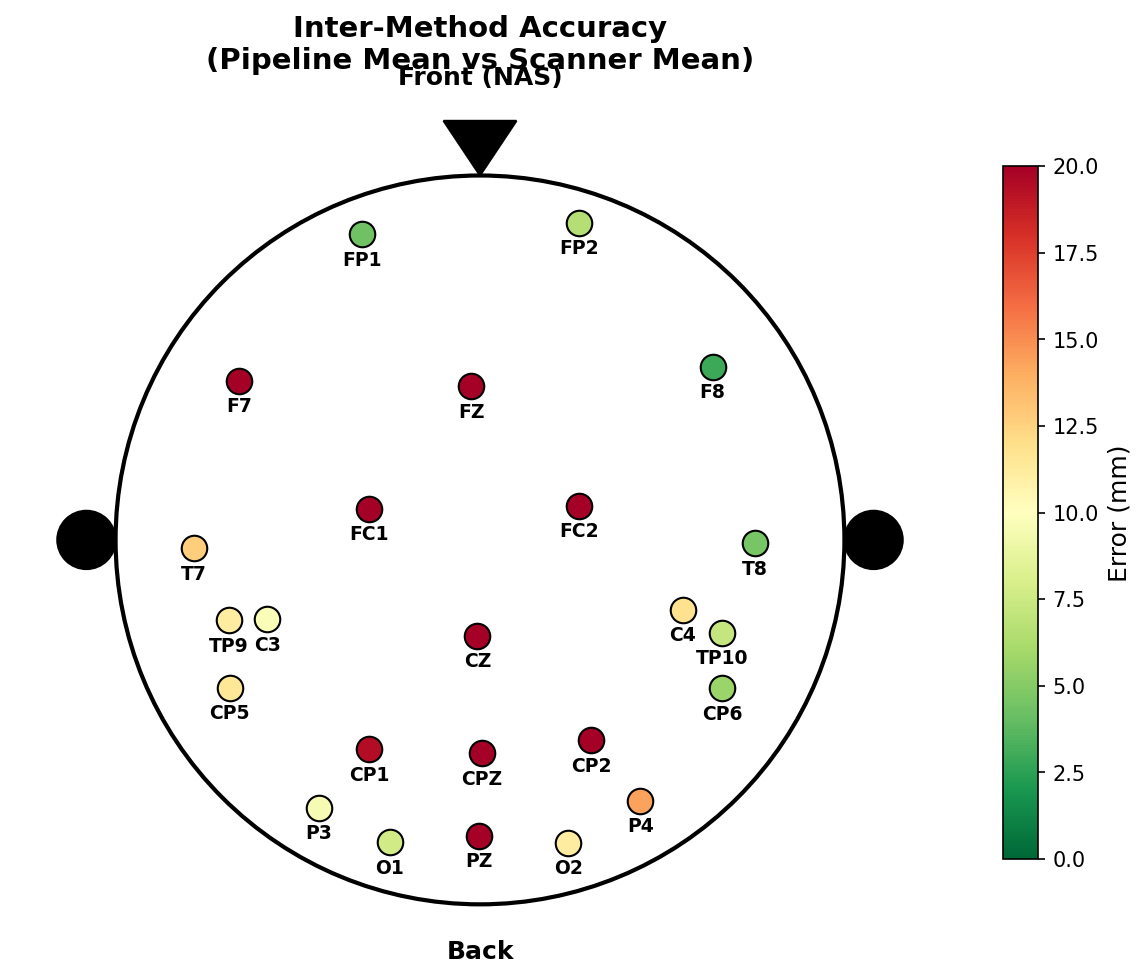
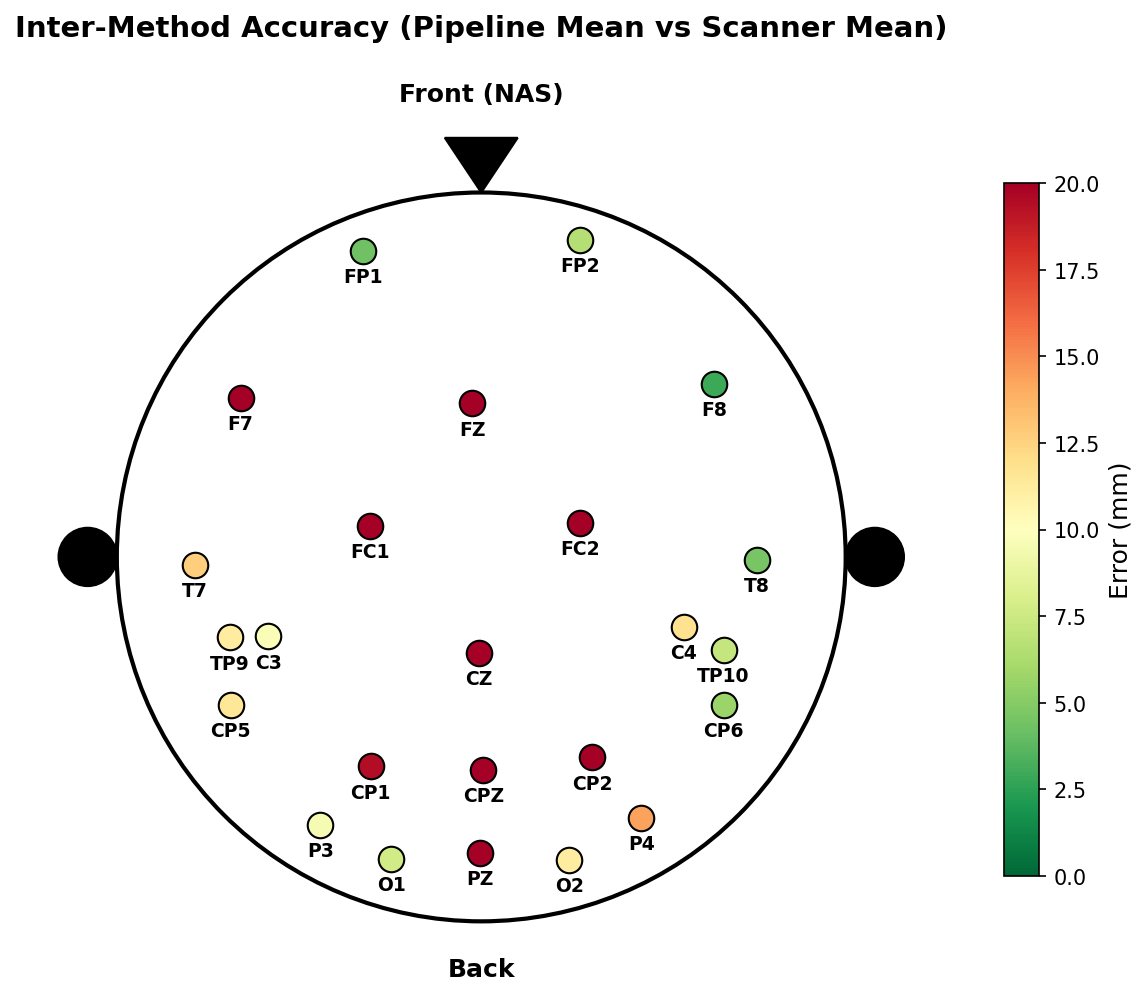
Update plot titles for consistency and clarity; adjust title padding in head map visualizations; replace outdated image files with new versions.

diff --git a/scripts/Pipeline_analysis_compare_ground_truth.py b/scripts/Pipeline_analysis_compare_ground_truth.py
@@ -225,7 +225,7 @@ def plot_top_view_head_map(accuracy_errors, scanner_mean, output_dir, title="Map
     ax.text(0, -115, 'Back', ha='center', fontsize=12, fontweight='bold')
     ax.set_aspect('equal')
     ax.axis('off')
-    ax.set_title(title, fontsize=14, fontweight='bold')
+    ax.set_title(title, fontsize=14, fontweight='bold', pad=30)
 
     plt.savefig(os.path.join(output_dir, filename), dpi=150, bbox_inches='tight')
     plt.close()
@@ -340,7 +340,7 @@ def main():
 
     # Plot 4: Final Accuracy Head Map
     plot_top_view_head_map(acc_errors, s_mean, OUTPUT_DIR, 
-                           title="Inter-Method Accuracy\n(Pipeline Mean vs Scanner Mean)", 
+                           title="Inter-Method Accuracy (Pipeline Mean vs Scanner Mean)", 
                            filename="accuracy_head_map.png")
 
     # Plot 5: Pipeline Variability Head Map
@@ -353,7 +353,7 @@ def main():
     # Plot 6: Scanner Variability Head Map (NEW)
     s_vars = {k: v['mean_distance'] for k, v in s_variability.items() if k not in LANDMARKS}
     plot_top_view_head_map(s_vars, s_mean, OUTPUT_DIR, 
-                           title="Scanner Internal Variability\n(Precision of the Digitizer)", 
+                           title="Scanner Internal Variability (Precision of the Digitizer)", 
                            filename="scanner_variability_map.png",
                            vmax=5) # Lower vmax because scanner should be very precise
     # Print numerical summary
